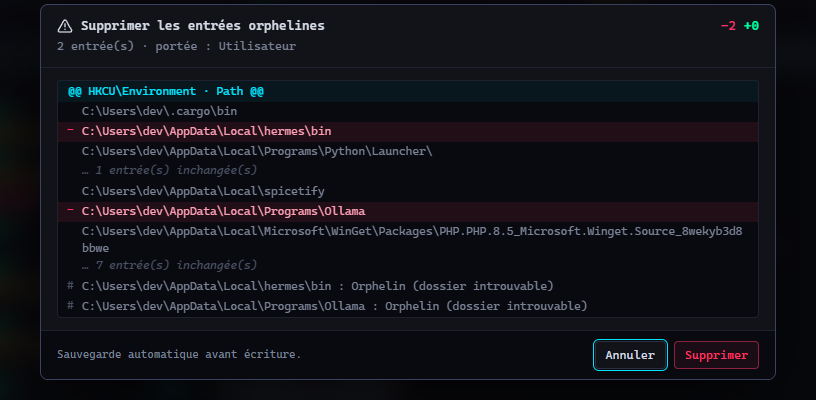
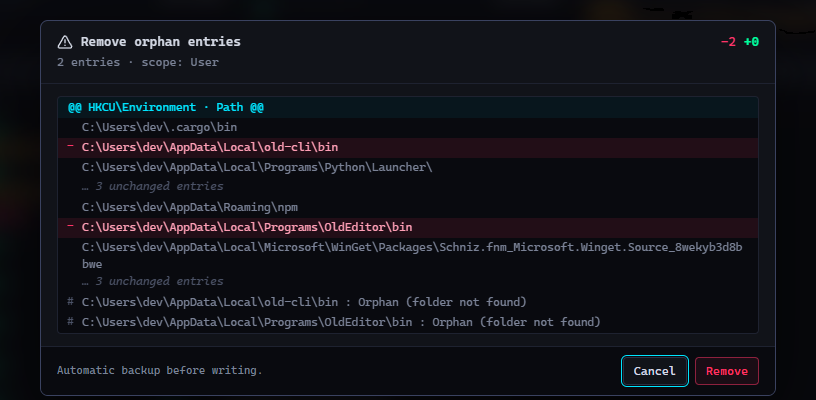
docs: GIF et captures en anglais par défaut, versions françaises en *.fr.*

diff --git a/README.fr.md b/README.fr.md
@@ -16,7 +16,7 @@ Application de bureau native (Rust + Tauri v2), un seul exécutable de moins de 
 
 ## 🎨 Aperçu de l'Interface
 
-![Démonstration Animée](assets/demo.gif)
+![Démonstration Animée](assets/demo.fr.gif)
 
 *Démo animée (données fictives) : suppression des doublons avec aperçu « diff », puis compression du PATH (−59 caractères).*
 
@@ -24,7 +24,7 @@ Application de bureau native (Rust + Tauri v2), un seul exécutable de moins de 
 <summary>Captures statiques</summary>
 
 <p align="center">
-  <img src="assets/ui-preview.png" alt="DevEnv Doctor : tableau du PATH avec jauges de longueur, filtres et badges" width="900">
+  <img src="assets/ui-preview.fr.png" alt="DevEnv Doctor : tableau du PATH avec jauges de longueur, filtres et badges" width="900">
 </p>
 
 Interface **HUD cyberpunk compacte**, pensée comme un outil de développeur : fond obsidienne, accents réservés aux statuts, police monospace. Le tableau dense liste le PATH dans l'ordre de résolution de Windows, avec des **filtres dynamiques** (mot-clé, état, scope), des badges **Valide / Orphelin / Doublon / Conflit de version** (une barre rouge ou ambre sur le côté repère les lignes à traiter), les jauges de longueur du PATH et les boutons ⬆ / ⬇ de priorité.
@@ -32,7 +32,7 @@ Interface **HUD cyberpunk compacte**, pensée comme un outil de développeur : f
 L’interface est disponible en **français et en anglais** : sélecteur FR/EN dans la barre du haut (langue du système par défaut, choix mémorisé ; messages d’erreur et script PowerShell exporté suivent la langue choisie).
 
 <p align="center">
-  <img src="assets/ui-diff.png" alt="DevEnv Doctor : modale de confirmation en mode diff Git" width="640">
+  <img src="assets/ui-diff.fr.png" alt="DevEnv Doctor : modale de confirmation en mode diff Git" width="640">
 </p>
 
 Avant toute écriture, une **modale de confirmation en mode « diff Git »** montre exactement ce qui sera retiré (lignes `−` en rouge, entrées inchangées repliées). Dans ces captures, le nom d'utilisateur Windows est masqué (`dev`).
